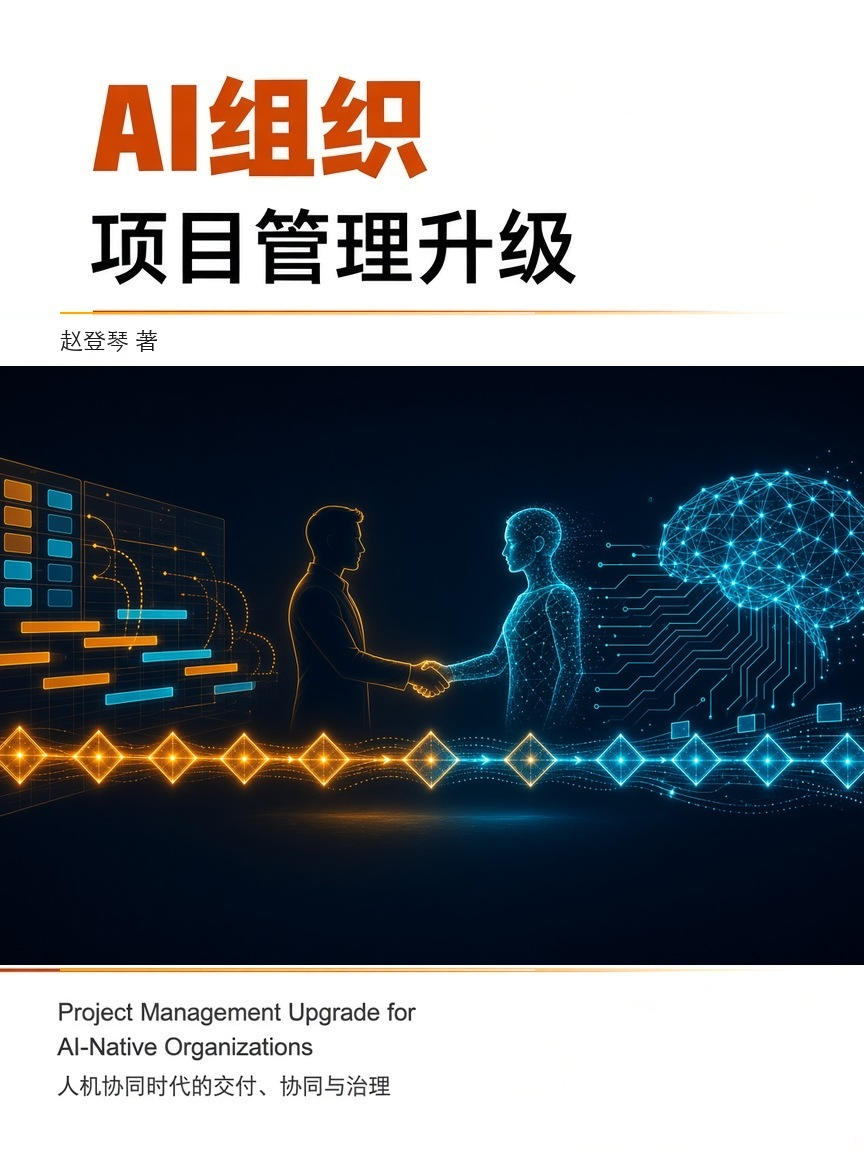
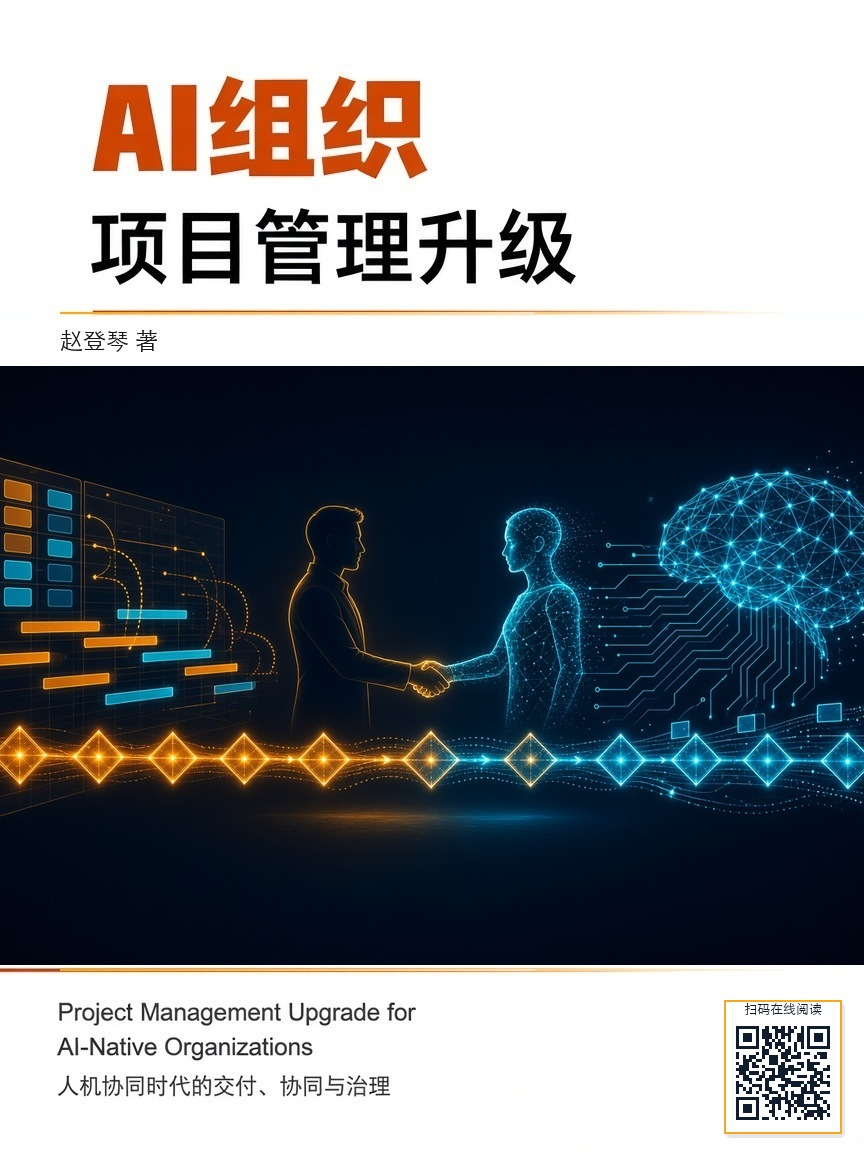
Add site QR code to the book cover.
Composite a scan badge for the GitHub Pages URL so readers can open the online edition from the cover.

Changed region(s): [[0.8125, 0.8438, 1.0, 1.0]]

diff --git a/cover.html b/cover.html
@@ -54,7 +54,7 @@
 <body>
   <div class="stage">
     <div class="cover">
-      <img src="images/cover.jpg" alt="AI组织项目管理升级 封面" />
+      <img src="images/cover.jpg" alt="AI组织项目管理升级 封面（含在线阅读二维码）" />
     </div>
     <div class="meta">
       AI组织项目管理升级<br />

diff --git a/README.md b/README.md
@@ -46,11 +46,13 @@
 
 | 入口 | 说明 |
 |------|------|
-| [`cover.html`](cover.html) | 封面页 |
+| [`cover.html`](cover.html) | 封面页（含在线阅读二维码） |
 | [`index.html`](index.html) | 总目录 |
 | [`ch00.html`](ch00.html) | 前言 |
 | [`ch01.html`](ch01.html) ~ [`ch10.html`](ch10.html) | 各章正文 |
 | [`appendix.html`](appendix.html) | 附录 |
+
+封面右下角二维码可扫码直达 https://cltf.github.io/PMOInAINative/ 。
 
 建议从 [`index.html`](index.html) 进入。左侧目录支持点击章节展开小节，其他章节自动收起；章内正文支持首行缩进阅读。
 
@@ -94,7 +96,8 @@ python3 _convert_docx.py
 | 文件 / 目录 | 用途 |
 |-------------|------|
 | `AI 组织中项目管理升级.docx` | Word 源稿 |
-| `images/cover.jpg` / `cover.png` | 封面图 |
+| `images/cover.jpg` / `cover.png` | 封面图（右下角含在线阅读二维码） |
+| `images/qr-site.png` | 站点二维码原图 |
 | `cover.html` | 封面页 |
 | `index.html` | 总目录 |
 | `ch00.html` ~ `ch10.html` | 前言与各章 HTML |
